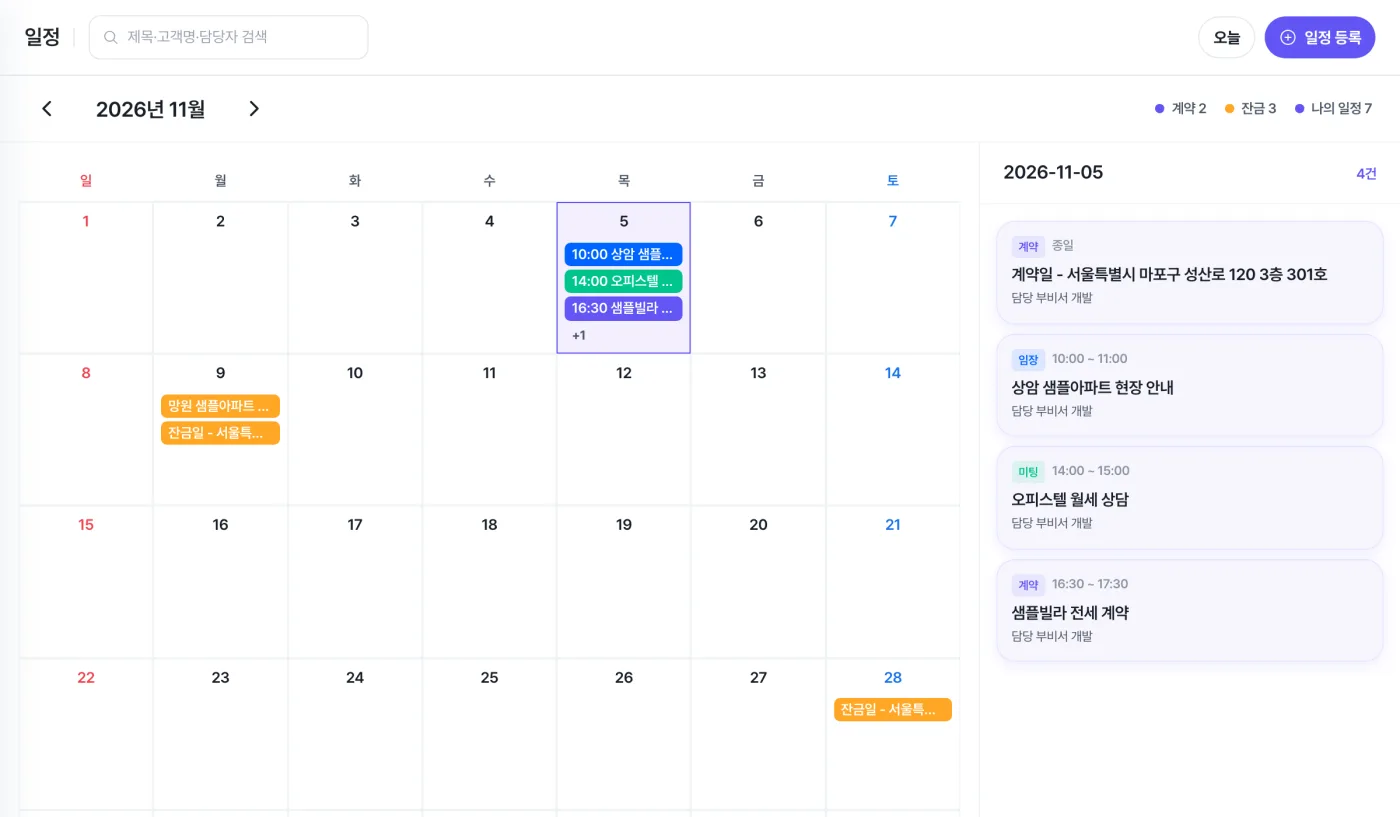
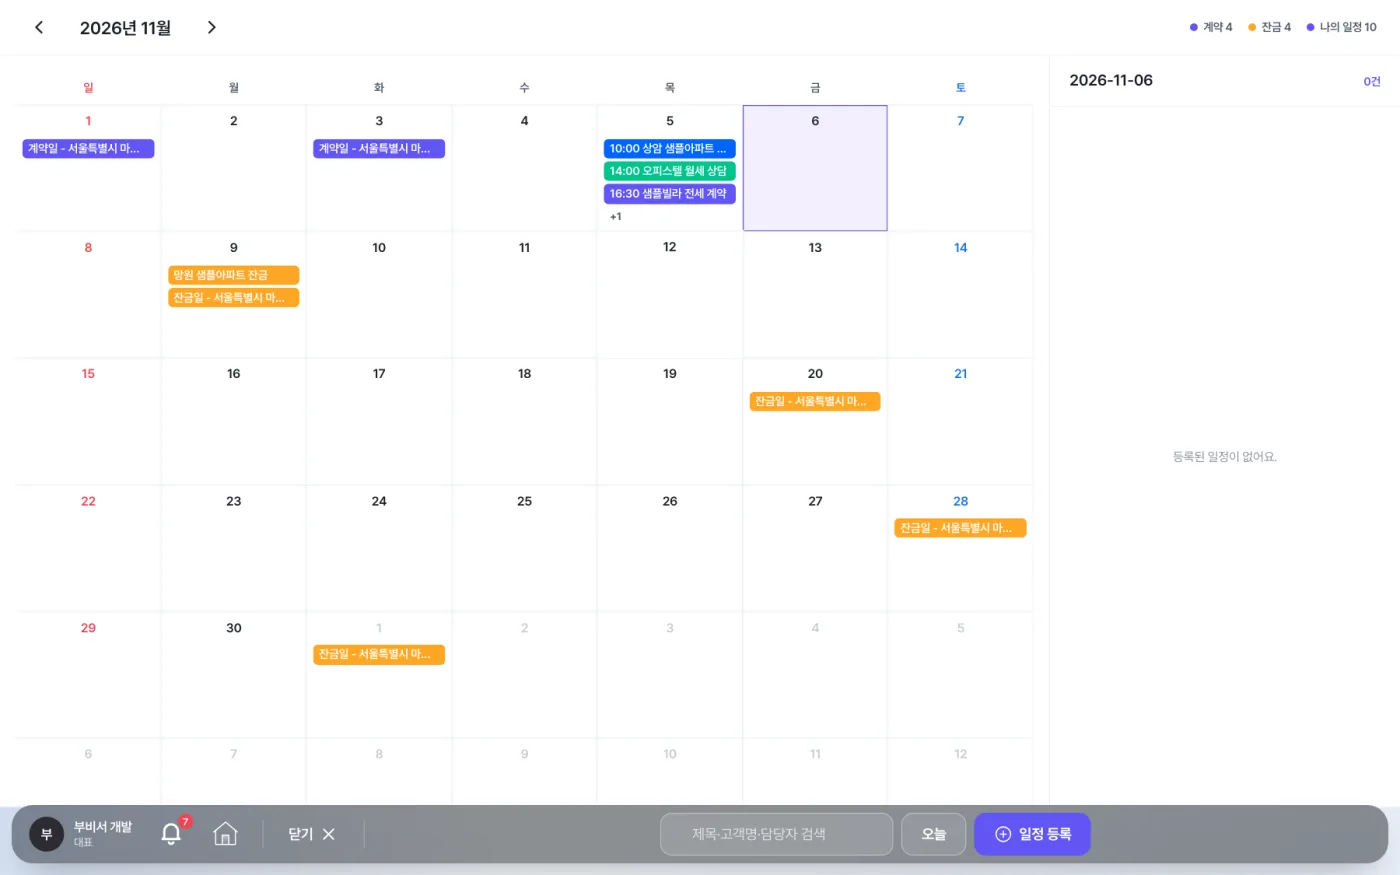
서비스 소개 — 화면 사진 10장을 새 하단 메뉴바 디자인으로 교체(대표 사진은 메뉴바 펼친 홈), 사진 크기 표시·홈 사진 설명 갱신

diff --git a/about.html b/about.html
@@ -57,7 +57,7 @@
         <div class="hero__panel">
           <div class="browser">
             <div class="browser__bar" aria-hidden="true"><i></i><i></i><i></i></div>
-            <img src="assets/about/dashboard.webp" width="1800" height="1125" alt="부비서 PC버전 홈 화면 — 오늘 업무, 계약서, 최근 등록 매물" />
+            <img src="assets/about/dashboard.webp" width="1800" height="1125" alt="부비서 PC버전 홈 화면 — 인사말, 오늘 일정·계약·중도금·잔금 요약, 아래 펼친 메뉴바" />
           </div>
         </div>
       </div>
@@ -78,7 +78,7 @@
             <p>엑셀·카톡·수첩에 흩어진 매물을 한곳에 등록하고, <br />지도 위에서 가격과 위치를 한눈에 봅니다.</p>
             <a class="more" href="/">자세히 보기</a>
             <div class="tile__art">
-              <div class="shot"><img src="assets/about/map.webp" width="1400" height="1050" alt="매물지도 화면 — 사진이 있는 매물 목록과 지도 위 매물 가격 표시" loading="lazy" /></div>
+              <div class="shot"><img src="assets/about/map.webp" width="1400" height="875" alt="매물지도 화면 — 사진이 있는 매물 목록과 지도 위 매물 가격 표시" loading="lazy" /></div>
             </div>
           </article>
 
@@ -103,7 +103,7 @@
                 <span class="pill pill--d">확인설명서 자동 입력</span>
                 <span class="pill pill--e">PDF 저장·인쇄</span>
               </div>
-              <div class="shot"><img src="assets/about/contracts.webp" width="1200" height="700" alt="계약서 목록 화면 — 계약 5건의 상태와 잔금일" loading="lazy" /></div>
+              <div class="shot"><img src="assets/about/contracts.webp" width="1400" height="875" alt="계약서 목록 화면 — 계약 5건의 상태와 잔금일" loading="lazy" /></div>
             </div>
           </article>
 
@@ -112,7 +112,7 @@
             <p>잔금일 D-day와 오늘 할 일을 홈 화면에서 바로 확인하고, <br />현장 안내·계약·잔금 일정을 달력으로 관리합니다.</p>
             <a class="more" href="/">자세히 보기</a>
             <div class="tile__art">
-              <div class="shot"><img src="assets/about/schedule.webp" width="1400" height="817" alt="일정 달력 화면" loading="lazy" /></div>
+              <div class="shot"><img src="assets/about/schedule.webp" width="1400" height="875" alt="일정 달력 화면" loading="lazy" /></div>
             </div>
           </article>
 
@@ -145,7 +145,7 @@
             <p>고객관리로 상담 단계를 기록하고 계약서·일정과 이어 둡니다. <br />통화가 끝나면 바로 고객으로 등록할 수 있습니다.</p>
             <a class="more" href="pricing.html">자세히 보기</a>
             <div class="tile__art">
-              <div class="shot"><img src="assets/about/customers.webp" width="1000" height="678" alt="고객관리 화면 — 고객 목록과 상세 정보" loading="lazy" /></div>
+              <div class="shot"><img src="assets/about/customers.webp" width="1400" height="875" alt="고객관리 화면 — 고객 목록과 상세 정보" loading="lazy" /></div>
             </div>
           </article>
 
@@ -167,7 +167,7 @@
             <p>직원관리로 직원 권한과 급여 설정을 <br />한곳에서 정리합니다.</p>
             <a class="more" href="pricing.html">자세히 보기</a>
             <div class="tile__art">
-              <div class="shot"><img src="assets/about/salaries.webp" width="900" height="704" alt="급여관리 화면 — 이번 달 계약별 급여 상태" loading="lazy" /></div>
+              <div class="shot"><img src="assets/about/salaries.webp" width="1400" height="875" alt="급여관리 화면 — 이번 달 계약별 급여 상태" loading="lazy" /></div>
             </div>
           </article>
 
@@ -176,7 +176,7 @@
             <p>근무시간 설정으로 출퇴근 시간·요일을 정하고 <br />출퇴근 알림을 보냅니다.</p>
             <a class="more" href="pricing.html">자세히 보기</a>
             <div class="tile__art">
-              <div class="shot shot--tall"><img src="assets/about/work-schedule.webp" width="700" height="934" alt="근무 시간 설정 화면 — 출근·퇴근 시간과 알림" loading="lazy" /></div>
+              <div class="shot shot--tall"><img src="assets/about/work-schedule.webp" width="700" height="840" alt="근무 시간 설정 화면 — 출근·퇴근 시간과 알림" loading="lazy" /></div>
             </div>
           </article>
 
@@ -185,7 +185,7 @@
             <p>사내 메신저로 대표와 소속 중개사가 <br />사무소 안에서 실시간으로 대화합니다.</p>
             <a class="more" href="pricing.html">자세히 보기</a>
             <div class="tile__art">
-              <div class="shot"><img src="assets/about/messenger.webp" width="900" height="689" alt="사내 메신저 화면 — 직원 목록과 채팅 목록" loading="lazy" /></div>
+              <div class="shot"><img src="assets/about/messenger.webp" width="1400" height="875" alt="사내 메신저 화면 — 직원 목록과 채팅 목록" loading="lazy" /></div>
             </div>
           </article>
         </div>
